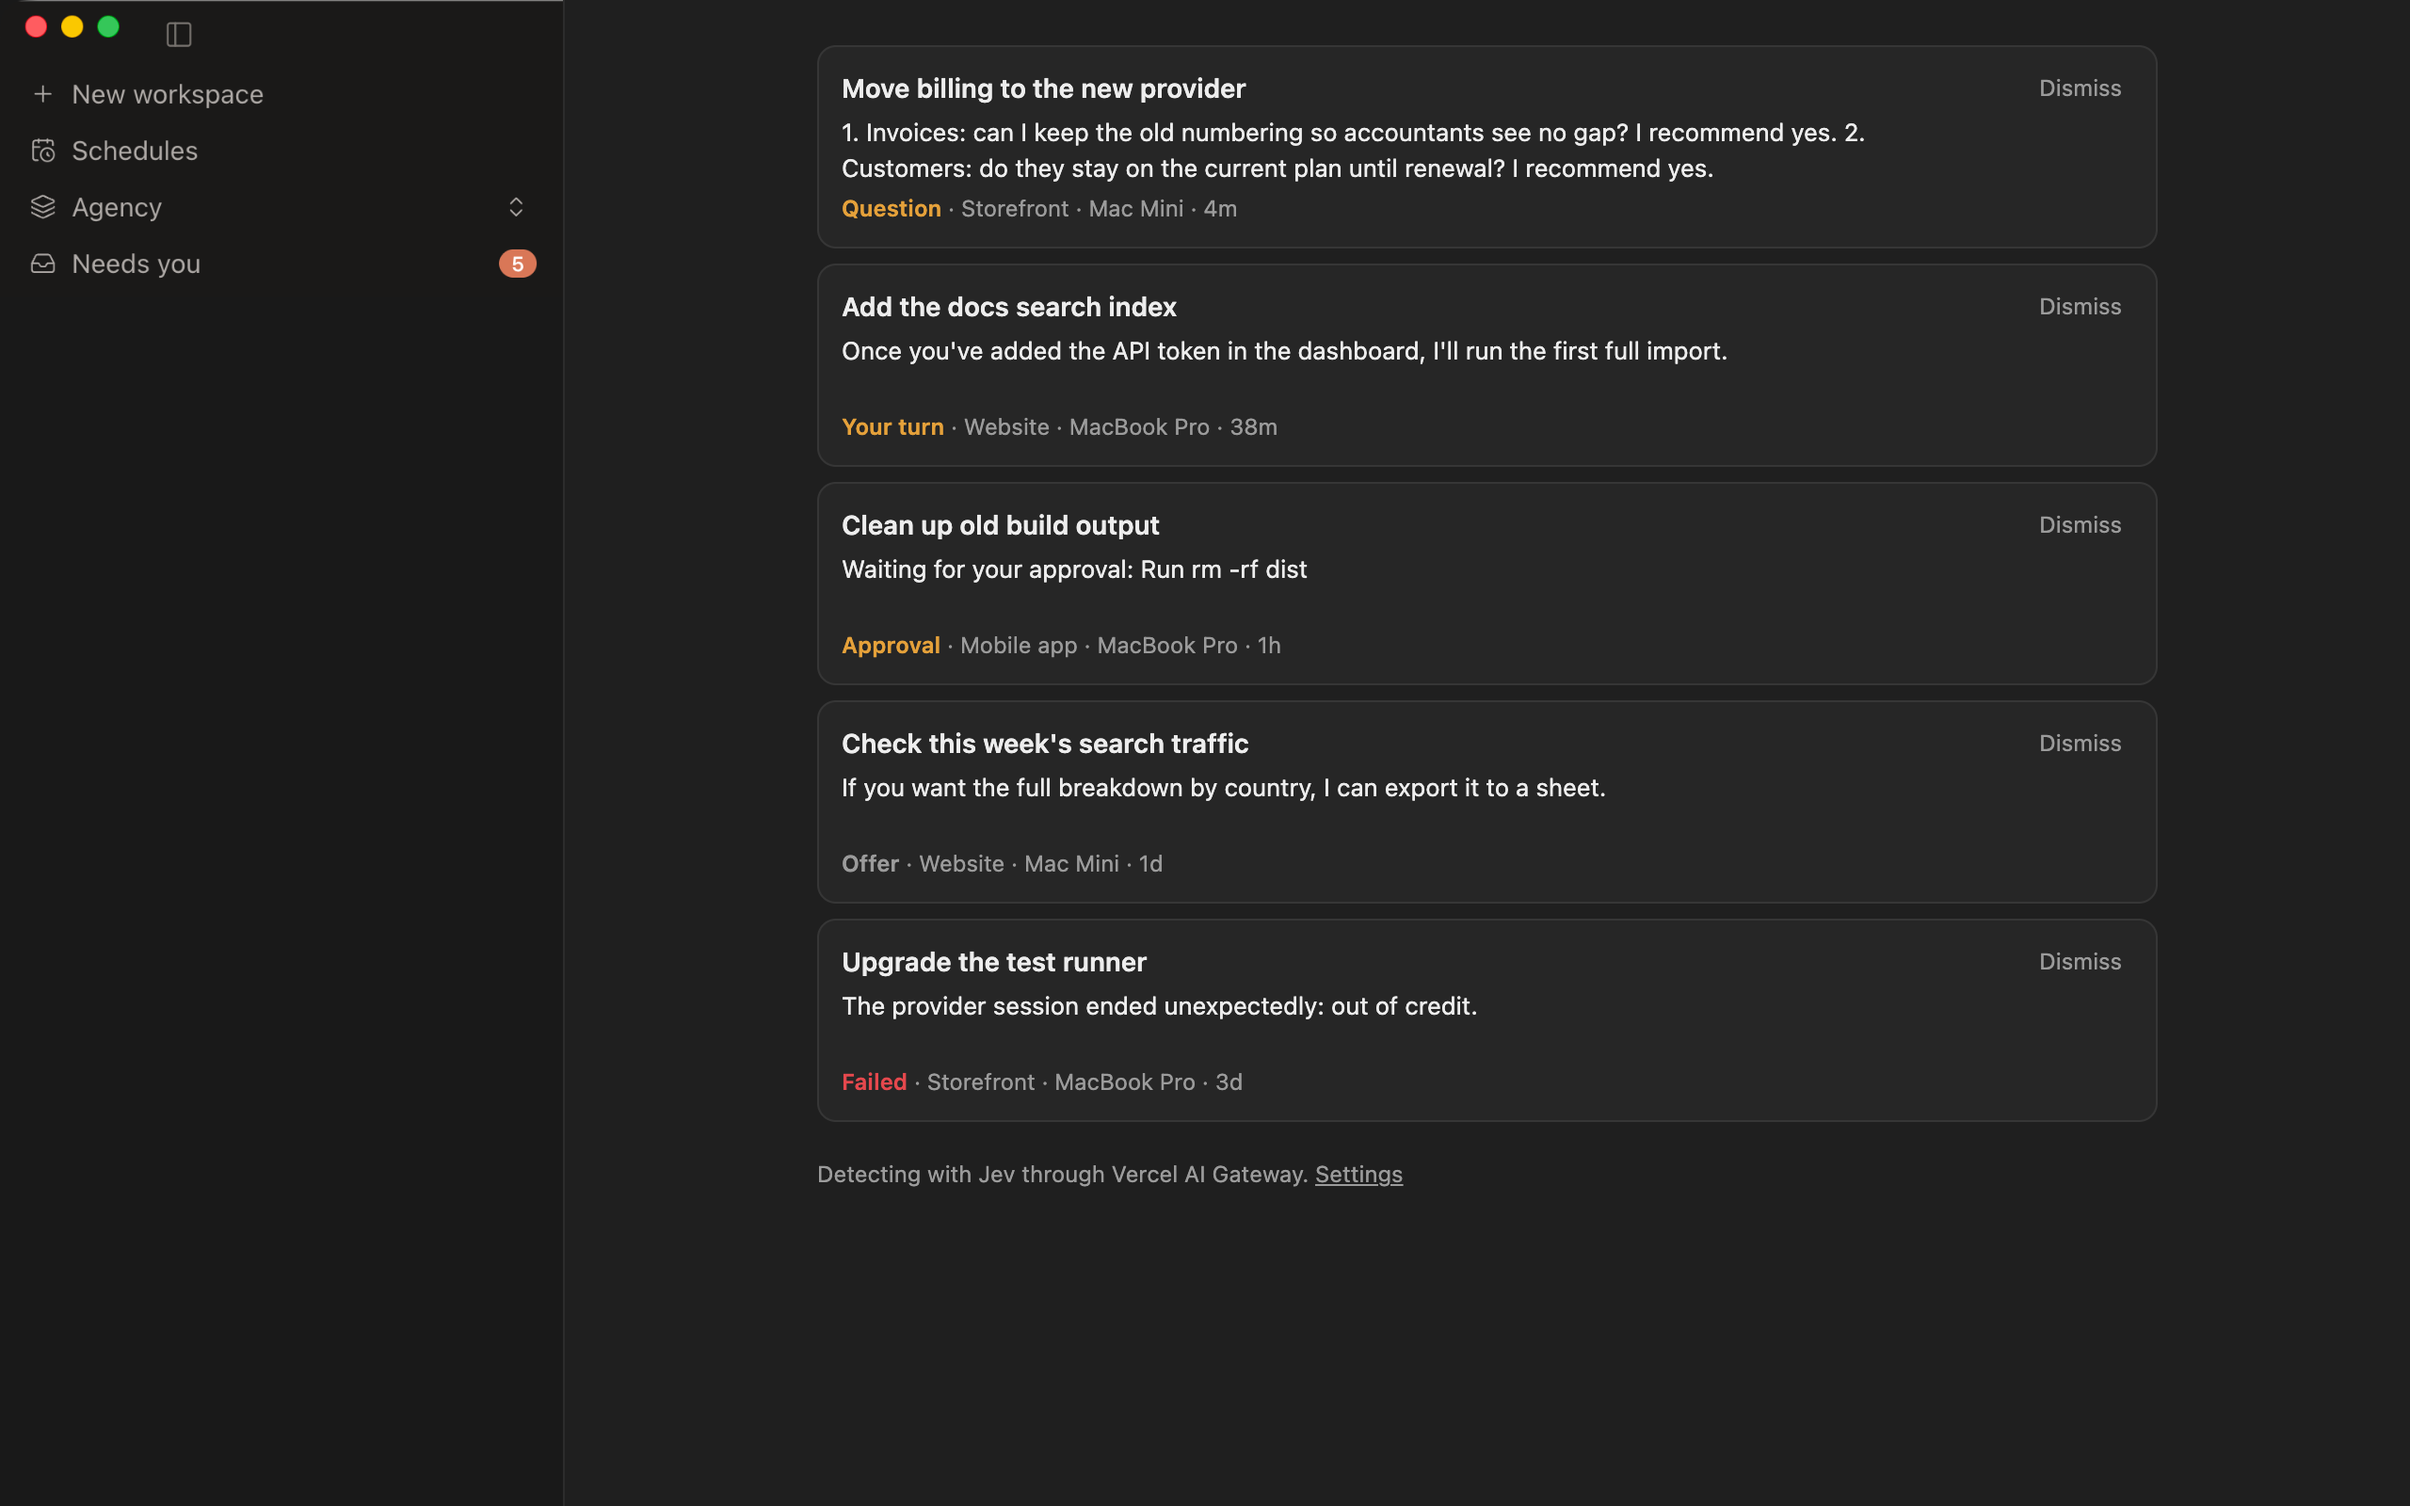
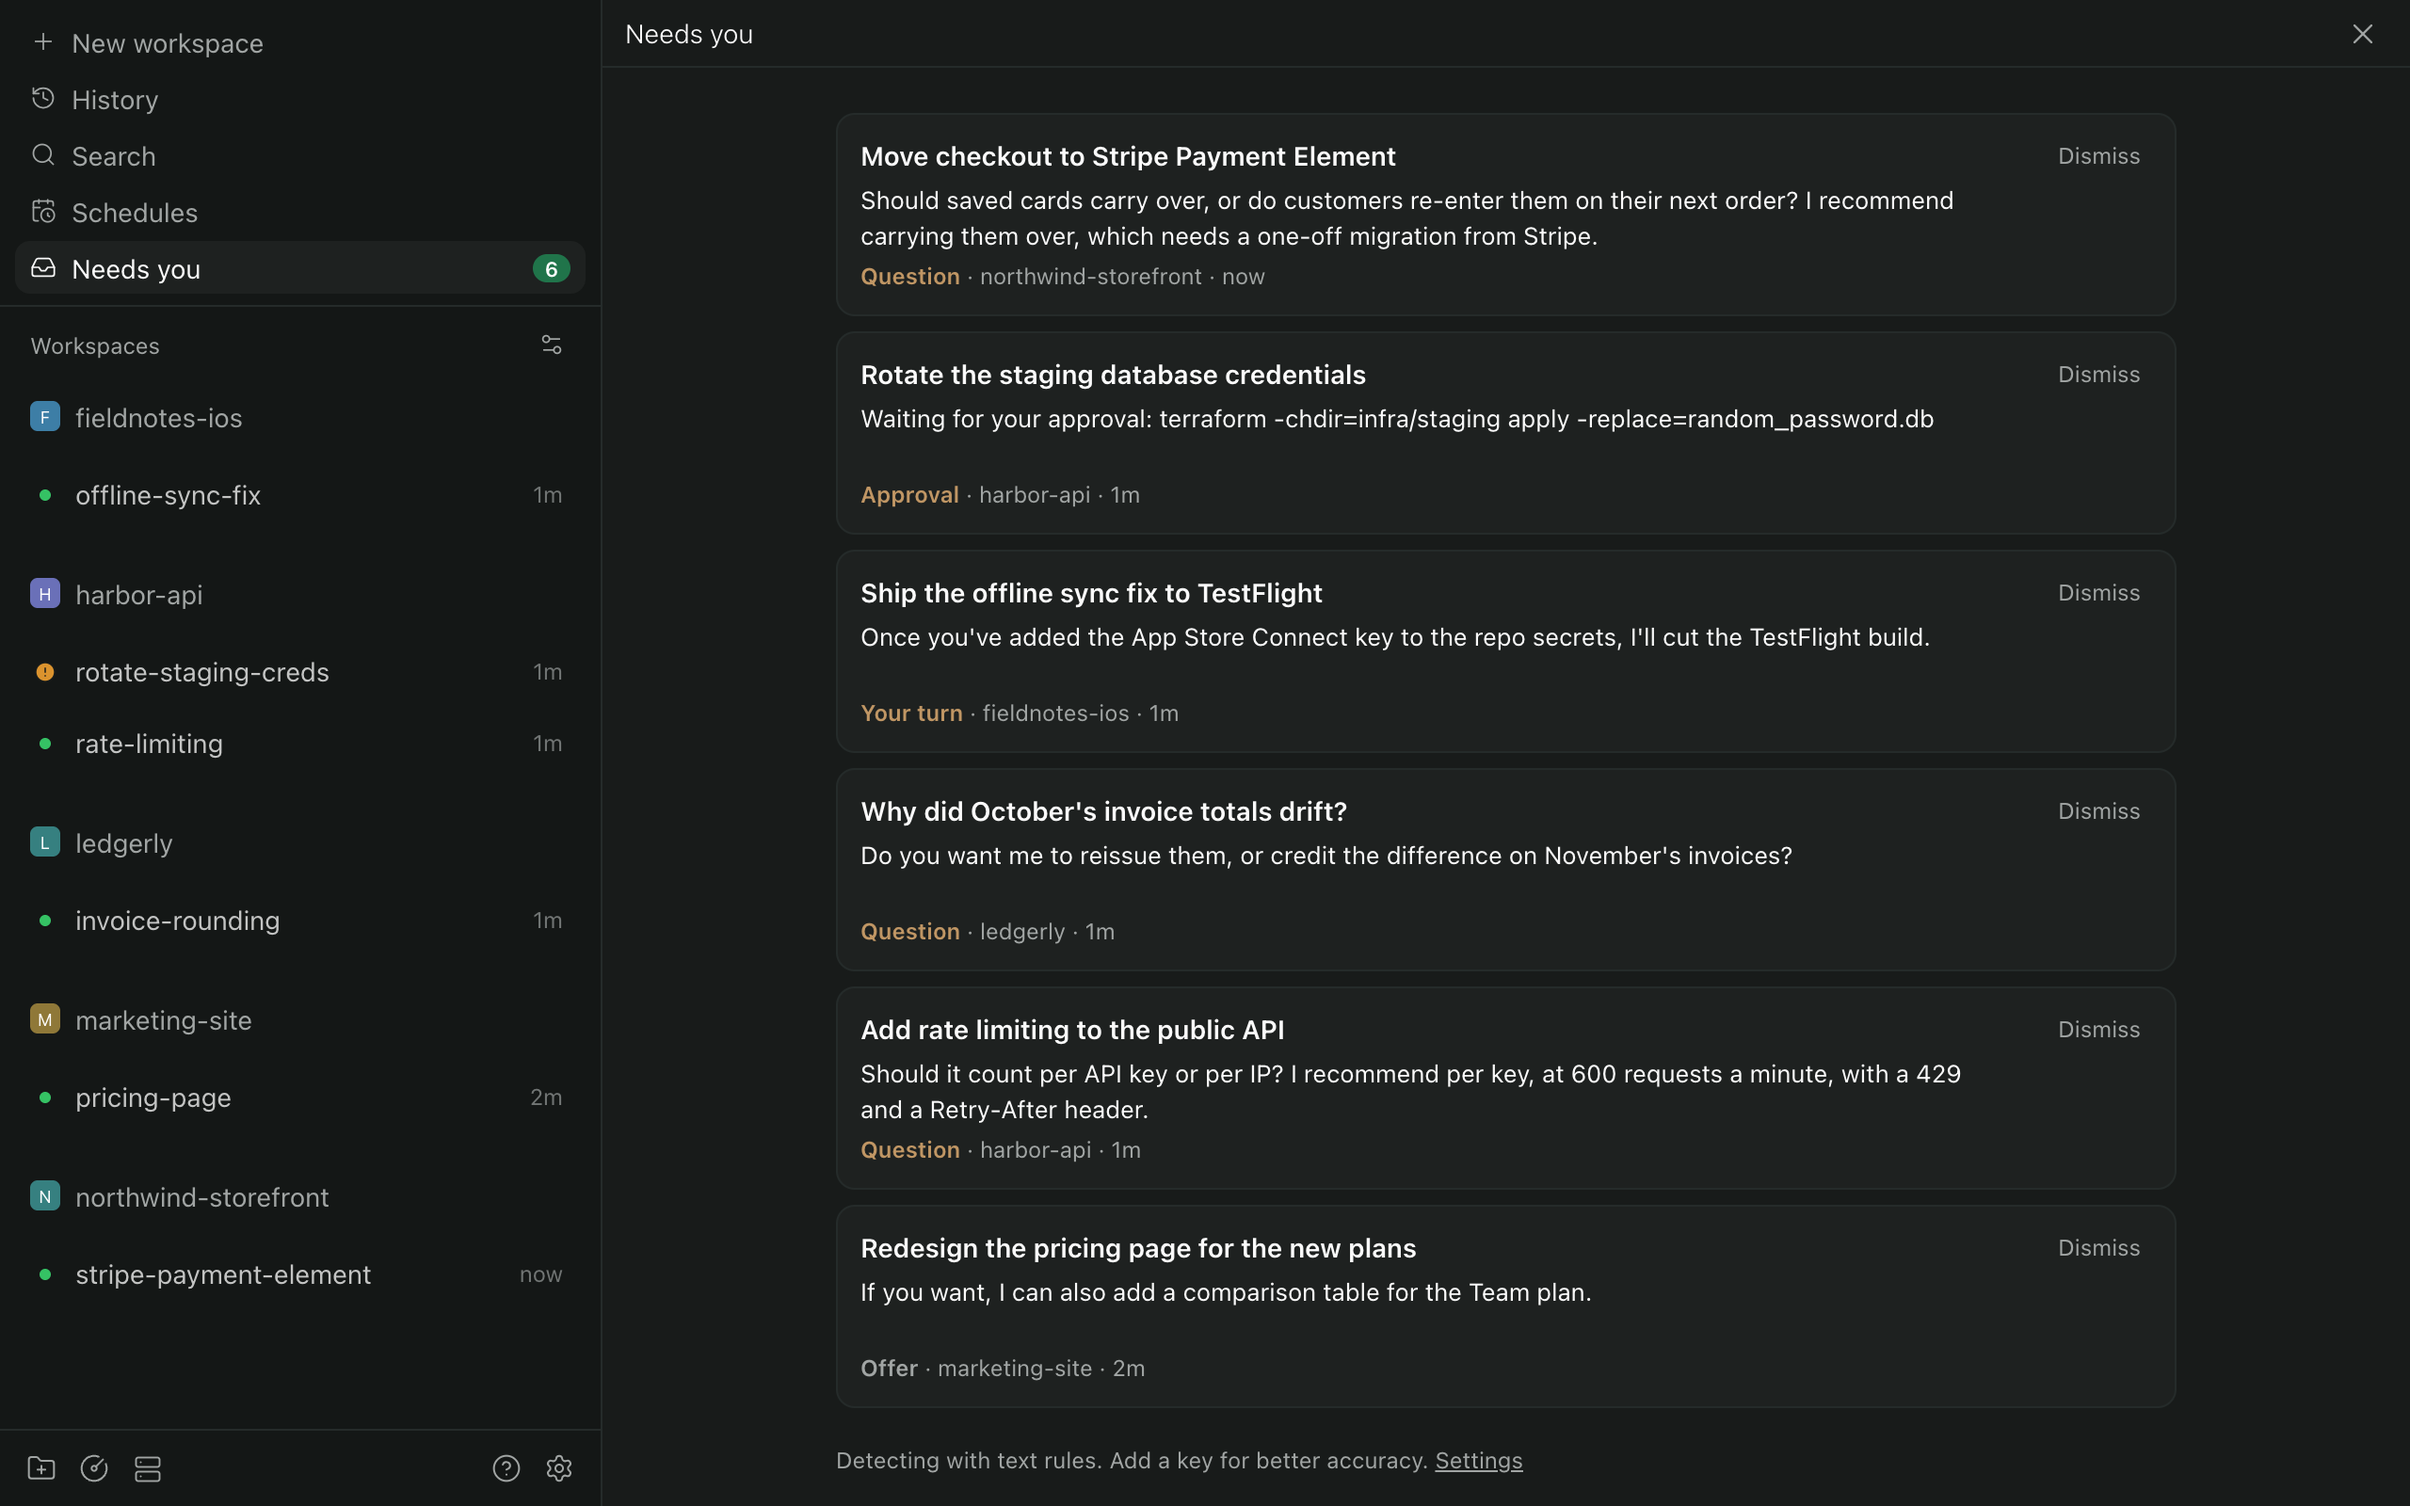
Approvals show what they are for, and listing screenshots use sample data
An approval only named the tool, and 'Bash' says nothing, so it now shows the
command or file. The listing images are from the real app with sample projects.

diff --git a/client/hosts.ts b/client/hosts.ts
@@ -7,6 +7,7 @@ export interface HostPermission {
   name: string;
   title?: string;
   description?: string;
+  input?: Readonly<Record<string, unknown>>;
 }
 
 export interface HostAgent {
@@ -73,8 +74,11 @@ export type Assessment = { kind: "skip" } | { kind: "read" } | ({ kind: "flag" }
 
 function permissionExcerpt(request: HostPermission | undefined) {
   if (!request) return "Waiting for your approval.";
-  const what = request.title || request.description || request.name;
-  return request.kind === "question" ? what : `Waiting for your approval: ${what}`;
+  if (request.kind === "question") return request.title || request.description || request.name;
+  // A tool's name says little: "Bash" only means something with the command it wants to run.
+  const target = request.input?.command ?? request.input?.file_path;
+  const what = typeof target === "string" && target ? target : request.title || request.description;
+  return `Waiting for your approval: ${what || request.name}`;
 }
 
 /** What is known from the agent's own state, before reading what it said. */

diff --git a/tests/hosts.test.ts b/tests/hosts.test.ts
@@ -119,3 +119,16 @@ test("ordinary titles are left alone, and a missing one has a name", () => {
   assert.equal(displayTitle("  "), "Untitled agent");
   assert.equal(displayTitle(null), "Untitled agent");
 });
+
+test("an approval shows the command or file it is for, not just the tool's name", () => {
+  const ask = (input: Record<string, unknown>) =>
+    assess(
+      agent({
+        pendingPermissions: [{ id: "r", kind: "tool", name: "Bash", title: "Bash", input }],
+      }),
+    );
+  const excerpt = (result: ReturnType<typeof ask>) => result.kind === "flag" && result.flag.excerpt;
+  assert.equal(excerpt(ask({ command: "npm test" })), "Waiting for your approval: npm test");
+  assert.equal(excerpt(ask({ file_path: "/a/b.ts" })), "Waiting for your approval: /a/b.ts");
+  assert.equal(excerpt(ask({})), "Waiting for your approval: Bash");
+});
